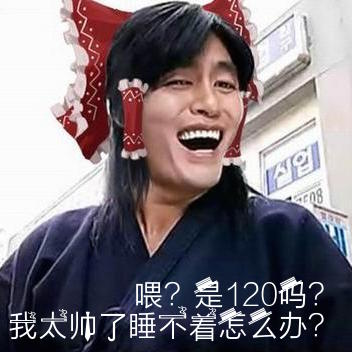
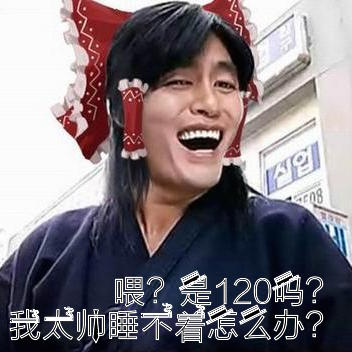
new commit

Changed region(s): [[0.0312, 0.75, 0.9375, 0.9688]]

diff --git a/app/assets/stylesheets/application.css.scss b/app/assets/stylesheets/application.css.scss
@@ -13,3 +13,14 @@
  *= require_tree .
  *= require_self
  */
+
+.pd-header{
+  padding-top: 50px
+}
+#footer{
+  position: absolute;
+  bottom:0;
+  width:100%;
+  height:60px;
+  background-color: pink;
+}

diff --git a/app/models/image_generator.rb b/app/models/image_generator.rb
@@ -9,12 +9,12 @@ class ImageGenerator < ActiveRecord::Base
     draw.annotate(img, 350, 350, 10, 10, text) do
       self.gravity = Magick::CenterGravity
       self.font = 'public/uploads/font-1.ttf'
-      self.pointsize = 30
+      self.pointsize = 33
       #self.font_weight = Magick::NormalWeight
       self.font_weight = Magick::BoldWeight
-      self.fill = 'white'
+      self.fill = 'black'
       self.gravity = Magick::SouthEastGravity
-      #self.stroke = "white"
+      self.stroke = "white"
     end
 
     # result_image = canvas.to_blob { self.format = 'gif' }

diff --git a/app/controllers/images_controller.rb b/app/controllers/images_controller.rb
@@ -3,12 +3,13 @@ class ImagesController < ApplicationController
   end
 
   def index
+    render :index
   end
 
   def generate
     image_url = "public/uploads/faces/jgz.jpg"
-    text = "喂？是120吗？\n我太帅了睡不着怎么办？"
-    image_bit = ImageGenerator.generate(image_url, text)
-    render :index
+    text = "喂？是120吗？\n我太帅睡不着怎么办？"
+    ImageGenerator.generate(image_url, text)
+    redirect_to images_path
   end
 end
